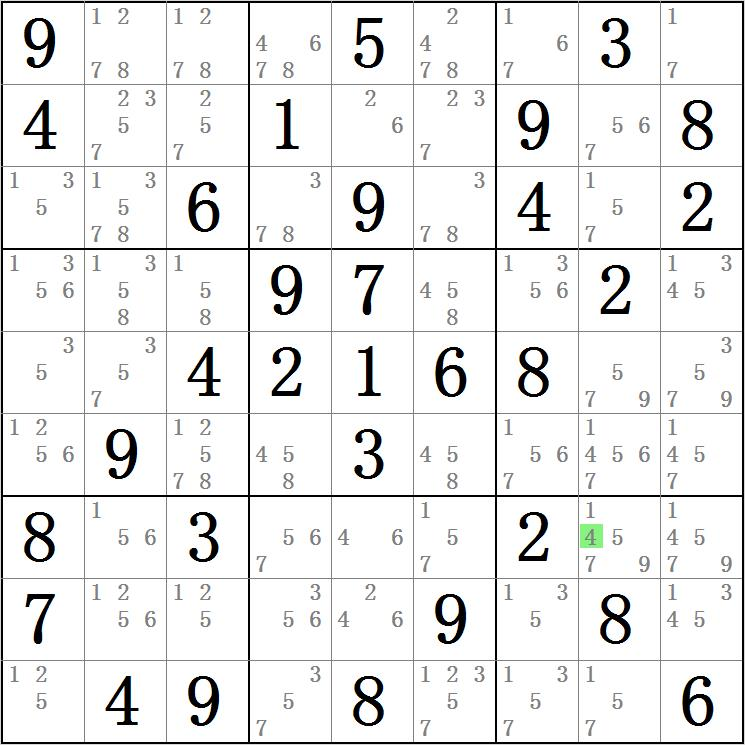
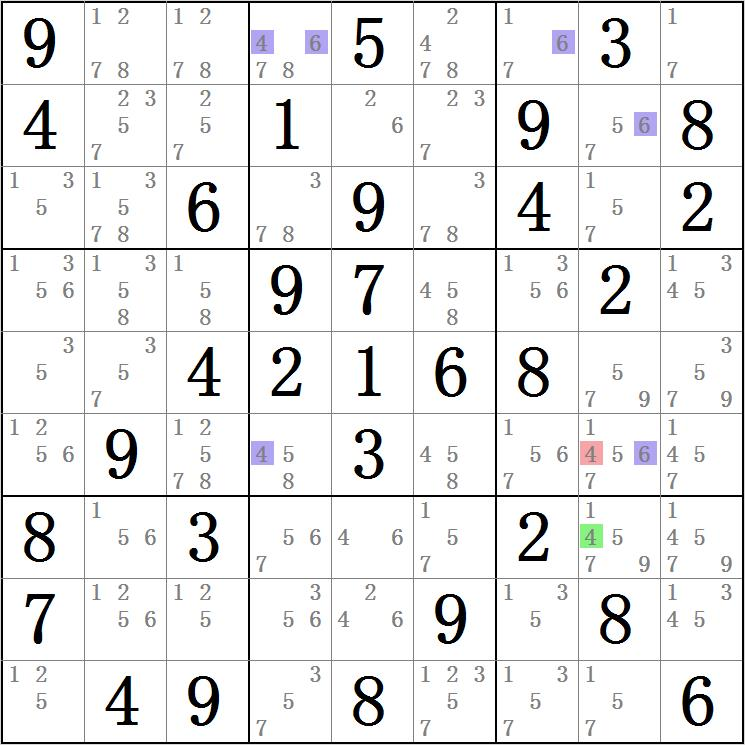
优化Local-Wing的展示

diff --git a/Sudoku.Tools/LocalWingHandler.cs b/Sudoku.Tools/LocalWingHandler.cs
@@ -1,11 +1,11 @@
 using Sudoku.Core;
+using Sudoku.Core.Model;
 using System.Collections.Generic;
 using System.Linq;
-using Sudoku.Core.Model;
 
 namespace Sudoku.Tools
 {
-    [AssignmentExample(4, "R7C8", "900050030400100908006090402000970020004216800090030000803000200700009080049080006",SolveMethodEnum.ClaimingInColumn)] //todo 待移除8宫4列的4
+    [AssignmentExample(4, "R7C8", "900050030400100908006090402000970020004216800090030000803000200700009080049080006", SolveMethodEnum.ClaimingInColumn)] //todo 待移除8宫4列的4
     public class LocalWingHandler : SolverHandlerBase
     {
         public override List<CellInfo> Assignment(QSudoku qSudoku)
@@ -34,7 +34,7 @@ namespace Sudoku.Tools
                         {
                             var cell1 = item.cell1;
                             var cell2 = item.cell2;
-            
+
                             var intercells = qSudoku.GetPublicUnsetAreas(cell1, cell2);
                             foreach (var cell3 in intercells)
                             {
@@ -44,8 +44,8 @@ namespace Sudoku.Tools
                                     var other = restList.First(c => c != one);
                                     if (cell3.RestList.Contains(one) && new NegativeCell(cell3.Index, one, qSudoku).NextCells.Exists(c => c.Value == one && c.Index == cell1.Index))
                                     {
-                                        var cell1otherNextCell = new NegativeCell(cell1.Index, other, qSudoku) .NextCells;
-                                        var cell2otherNextCell = new NegativeCell(cell2.Index, other, qSudoku) .NextCells;
+                                        var cell1otherNextCell = new NegativeCell(cell1.Index, other, qSudoku).NextCells;
+                                        var cell2otherNextCell = new NegativeCell(cell2.Index, other, qSudoku).NextCells;
 
                                         var cellkey = (from cell4 in cell1otherNextCell
                                                        join cell5 in cell2otherNextCell on cell4.Value equals cell5.Value
@@ -59,15 +59,18 @@ namespace Sudoku.Tools
                                             var cell5 = item1.cell5;
                                             if (G.MergeCellIndexs(cell1, cell2, cell3, cell4, cell5).Distinct().Count() == 5)
                                             {
-                                                var cell = new NegativeCell(cell2.Index, one, qSudoku) ;
+                                                var cell = new NegativeCell(cell2.Index, one, qSudoku);
                                                 cell.SolveMessages = new List<SolveMessage>
                                             {
-                                                cell1.Location,
-                                                cell2.Location,
-                                                cell3.Location,
-                                                cell4.Location,
-                                                cell5.Location
+                                                G.MergeLocationDesc(cell1,cell2,cell3,cell4,cell5),"构成",one+"和"+other+"的",G.GetEnumDescription(methodType),"\t\t\r\n所以",cell.Location,"不能为"+one+"\t\t\r\n"
                                             };
+                                                cell.drawCells.Add(new ChainCell(cell1.Index, one, qSudoku));
+                                                cell.drawCells.Add(new ChainCell(cell1.Index, other, qSudoku));
+                                                cell.drawCells.Add(new ChainCell(cell4.Index, other, qSudoku));
+                                                cell.drawCells.Add(new ChainCell(cell5.Index, other, qSudoku));
+                                                cell.drawCells.Add(new ChainCell(cell3.Index, one, qSudoku));
+                                                cell.drawCells.Add(new ChainCell(cell2.Index, other, qSudoku));
+                                                cell.drawCells.Add(cell);
                                                 cells.Add(cell);
                                             }
 
